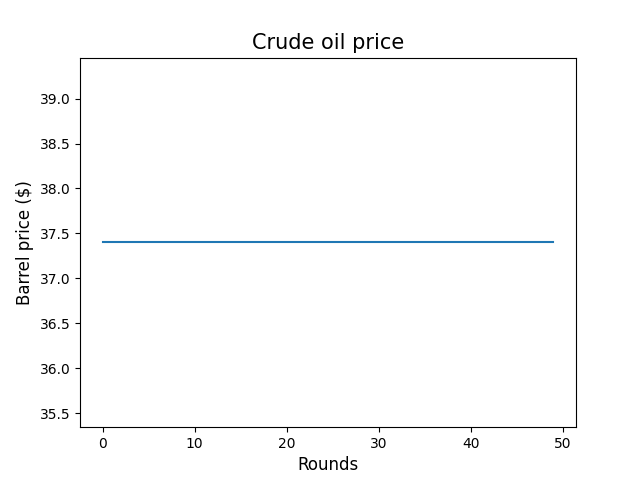
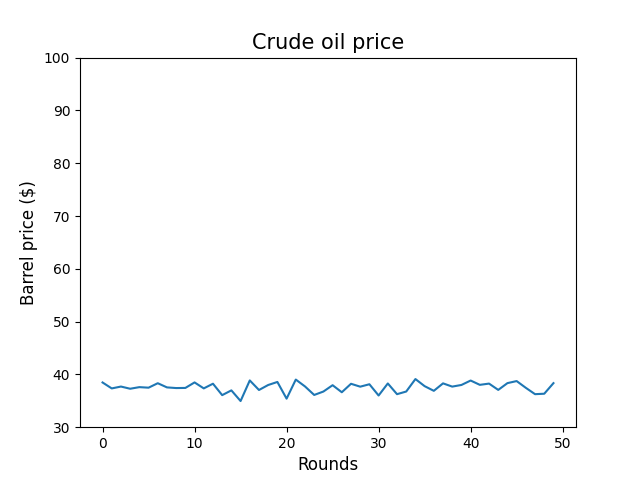
added fixed y axis sizes in visualize.py

diff --git a/visualize.py b/visualize.py
@@ -4,6 +4,8 @@ def plot(prices: list[int]) -> None:
     line_plot = sns.lineplot(prices)
     fig = line_plot.get_figure()
 
+    line_plot.set_ylim(30, 100)
+
     line_plot.set_xlabel("Rounds", fontsize=12)
     line_plot.set_ylabel("Barrel price ($)", fontsize=12)
     line_plot.set_title("Crude oil price", fontsize=15)
@@ -18,6 +20,8 @@ def plot_cheat_index(cheat_index_list: list[tuple[str, list[float]]]) -> None:
         line_plot = sns.lineplot(cheat_index, label=name)
 
     fig = line_plot.get_figure()
+
+    line_plot.set_ylim(0.8, 2)
 
     line_plot.set_xlabel("Rounds", fontsize=12)
     line_plot.set_ylabel("Level of cheating", fontsize=12)
